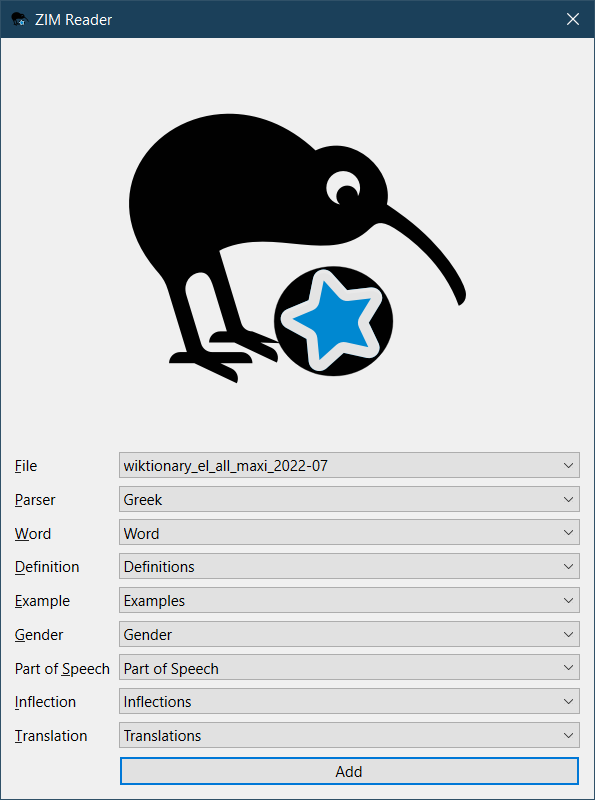
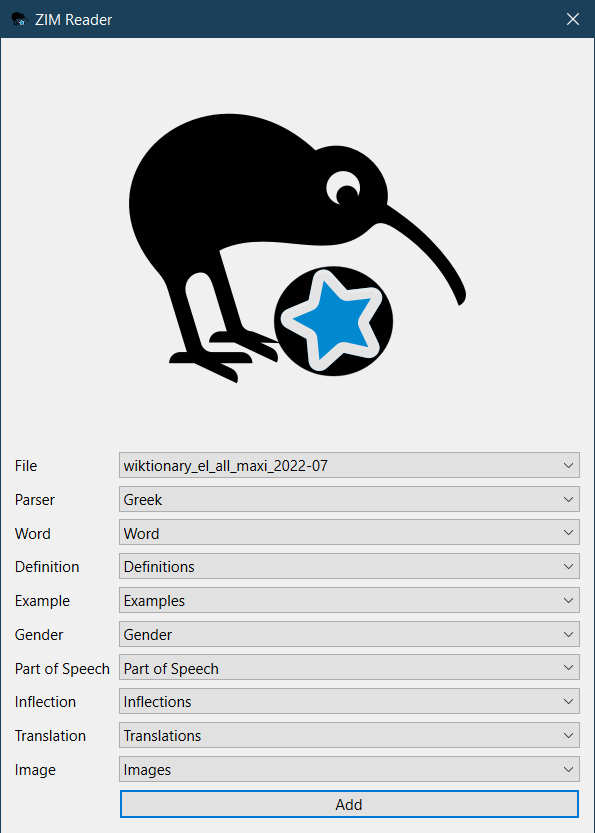
Add image field
Only implemented for German currently.
See #5

diff --git a/src/gui/main.py b/src/gui/main.py
@@ -48,6 +48,7 @@ class ZIMFetcherDialog(QDialog):
             self.form.POSFieldComboBox,
             self.form.inflectionFieldComboBox,
             self.form.translationFieldComboBox,
+            self.form.imageFieldComboBox,
         ]
         self.setWindowTitle(consts.ADDON_NAME)
         icon = QIcon(os.path.join(consts.ICONS_DIR, "logo.svg"))
@@ -97,6 +98,7 @@ class ZIMFetcherDialog(QDialog):
         "part_of_speech_field",
         "inflection_field",
         "translation_field",
+        "image_field",
     )
 
     def set_last_used_settings(self) -> None:
@@ -148,7 +150,7 @@ class ZIMFetcherDialog(QDialog):
                 textFormat="rich",
             )
             return
-        parser = PARSER_CLASSES[self.form.parserComboBox.currentIndex()]()
+        parser = PARSER_CLASSES[self.form.parserComboBox.currentIndex()](self.mw.col)
         self.dictionary = ZIMDict(self.form.fileComboBox.currentText(), parser)
         word_field = self.form.wordFieldComboBox.currentText()
         definition_field_i = self.form.definitionFieldComboBox.currentIndex()
@@ -157,6 +159,7 @@ class ZIMFetcherDialog(QDialog):
         pos_field_i = self.form.POSFieldComboBox.currentIndex()
         inflection_field_i = self.form.inflectionFieldComboBox.currentIndex()
         translation_field_i = self.form.translationFieldComboBox.currentIndex()
+        image_field_i = self.form.imageFieldComboBox.currentIndex()
 
         field_tuples = (
             (definition_field_i, self._get_definitions),
@@ -165,6 +168,7 @@ class ZIMFetcherDialog(QDialog):
             (pos_field_i, self._get_part_of_speech),
             (inflection_field_i, self._get_inflections),
             (translation_field_i, self._get_translations),
+            (image_field_i, self._get_images),
         )
 
         def on_success(ret: Any) -> None:
@@ -266,3 +270,6 @@ class ZIMFetcherDialog(QDialog):
 
     def _get_translations(self, entry: DictEntry) -> str:
         return entry.translations
+
+    def _get_images(self, entry: DictEntry) -> str:
+        return entry.images

diff --git a/src/dictionaries/german.py b/src/dictionaries/german.py
@@ -35,6 +35,7 @@ class GermanParser(Parser):
         gender_list = []
         inflections_list = []
         translations_list = []
+        images_list = []
 
         entries = german_details.select('details[data-level="3"]')
         for entry in entries:
@@ -61,6 +62,15 @@ class GermanParser(Parser):
             if inflection_table:
                 inflections_list.append(inflection_table.decode())
 
+            imgs = entry.select(".thumbinner img")
+            for img in imgs:
+                src = img["src"]
+                filename = dictionary.save_resource(src)
+                if filename:
+                    img["src"] = filename
+                    # TODO: maybe strip all other attributes
+                    images_list.append(img.decode())
+
         translations_table = german_details.select_one('[title*="Übersetzungen"]')
         if translations_table:
             translations_list.append(translations_table.decode())
@@ -73,4 +83,5 @@ class GermanParser(Parser):
             "<br>".join(pos_list),
             "<br>".join(inflections_list),
             "<br>".join(translations_list),
+            "".join(images_list),
         )

diff --git a/src/dictionaries/greek.py b/src/dictionaries/greek.py
@@ -9,6 +9,7 @@ from .dictionary import DictEntry, ZIMDict, strip_images
 from .parser import Parser
 
 if TYPE_CHECKING:
+    from anki.collection import Collection
     from spacy.language import Language
 
 
@@ -20,7 +21,8 @@ class GreekParser(Parser):
 
     name = "Greek"
 
-    def __init__(self) -> None:
+    def __init__(self, col: Collection | None) -> None:
+        super().__init__(col)
         self.nlp: Language | None = None
         try:
             import spacy
@@ -28,7 +30,6 @@ class GreekParser(Parser):
             self.nlp = spacy.load("el_core_news_sm")
         except:
             pass
-        super().__init__()
 
     def _stem(self, word: str) -> str:
         doc = self.nlp(word)
@@ -186,4 +187,6 @@ class GreekParser(Parser):
             "<br>".join(pos),
             inflections,
             translations,
+            # TODO: images
+            "",
         )

diff --git a/src/dictionaries/dictionary.py b/src/dictionaries/dictionary.py
@@ -27,6 +27,7 @@ class DictEntry:
     pos: str
     inflections: str
     translations: str
+    images: str
 
 
 class ZIMDict:
@@ -77,6 +78,17 @@ class ZIMDict:
 
     def get_article(self, query: str) -> Article | None:
         return self.parser.get_article(query, self)
+
+    def save_resource(self, path: str) -> str | None:
+        # Strip out '../'
+        path = path.split("/", maxsplit=1)[-1]
+        try:
+            article = self.zim_client.get_article(path)
+        except KeyError:
+            return None
+        filename = path.split("/")[-1]
+        assert self.parser.col
+        return self.parser.col.media.write_data(filename, article.data)
 
 
 def get_next_sibling_element(element: Tag) -> Tag | None:

diff --git a/src/dictionaries/parser.py b/src/dictionaries/parser.py
@@ -10,11 +10,16 @@ from typing import TYPE_CHECKING
 from zimply_core.zim_core import Article
 
 if TYPE_CHECKING:
+    from anki.collection import Collection
+
     from .dictionary import DictEntry, ZIMDict
 
 
 class Parser(ABC):
     name: str
+
+    def __init__(self, col: Collection | None = None):
+        self.col = col
 
     @staticmethod
     @functools.lru_cache

diff --git a/src/dictionaries/spanish.py b/src/dictionaries/spanish.py
@@ -80,4 +80,6 @@ class SpanishParser(Parser):
             "<br>".join(pos),
             inflections,
             translations,
+            # TODO: images
+            "",
         )
